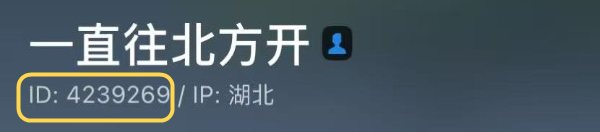
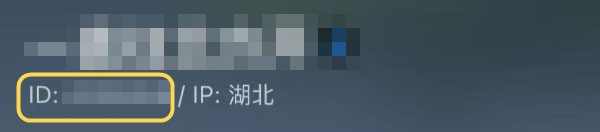
feat(douban-import): 入口挪到「批量标记」右边；示例图昵称和 ID 打码

Changed region(s): [[0.03, 0.0909, 0.6, 0.5455], [0.09, 0.6061, 0.3, 0.7879]]

diff --git a/CLAUDE.md b/CLAUDE.md
@@ -202,7 +202,7 @@ One-shot "move house" of a user's public Douban 看过 / 想看 into `Marks`. **
 - **Source:** `m.douban.com/rexxar/api/v2/user/{uid}/interests?type=movie&status=done|mark`, anonymous, 50 per page, needs iPhone UA + `m.douban.com/people/{uid}/` Referer. There is no official third-party API, so it only works for public records. Pages often hold 49 items (taken-down entries are skipped) — **paginate by fixed step against `total`, never stop on a short page** (the first cut did, and stopped after page 1). Unknown uid → 404 `traversal_error`, which must not trip the circuit.
 - **Cloud function `importDoubanMarks`** (actions `preview / start / page / finish / undo`, ops `stats / resetCircuit`): the client loops one page per call (≈2~3 s each) with an 800 ms gap. Matching = `movie_facts.doc(doubanId).movieIds` (all ranking docs except IMDb, which has no doubanId), so no `movie_alias` expansion. Write rules in `logic.js` (pure, `node --test tools/test-douban-import.cjs`): only add, never downgrade — unmarked → add; local wish + Douban watched → upgrade (keeps `prevStatus`/`prevMarkedAt`); everything else skipped. `marked_at` = Douban's own mark time, so timelines stay honest and "最近热门" isn't inflated. Every written mark carries `source:'douban_import'`, `importId`, `importStatus`; `undo` only touches marks whose status still equals `importStatus` (deletes adds, restores upgrades, strips import fields from ones the user changed).
 - **Guards (protect the shared egress IP — a ban would also break 评分查询 / 每日电影 search / covers):** collection `douban_import_jobs` (one doc per import + `_id:'__circuit'`); ≤ 5 imports running at once (`MAX_ACTIVE`), one finished import per user per Beijing day (an undone one doesn't count; a running one resumes from its stored cursors), and any non-200 / `code` from Douban trips a 30-minute global pause.
-- **Entry:** a chip in the Douban TOP250 list hero, shown only to logged-in users inside gray rollout `grayRollout.douban_import` (local default 0, `grayForceIn` has the self-test openid; widen it in cloud `app_config`). It doubles as the A/B split for "does import help retention". The list page reloads marks in `onShow` when `globalData.doubanImportDirty` is set. Import never writes `DailyLogs` (Douban mark dates ≠ watch dates); the done screen no longer links to 每日电影 (removed 2026-11-01 at the user's request). The page asks only for the numeric Douban ID, with `images/douban-id-guide.jpg` showing where it sits under the nickname.
+- **Entry:** a 「从豆瓣导入」 button right of 「批量标记」 in the Douban TOP250 list's sticky action row, shown only to logged-in users inside gray rollout `grayRollout.douban_import` (local default 0, `grayForceIn` has the self-test openid; widen it in cloud `app_config`). It doubles as the A/B split for "does import help retention". The list page reloads marks in `onShow` when `globalData.doubanImportDirty` is set. Import never writes `DailyLogs` (Douban mark dates ≠ watch dates); the done screen no longer links to 每日电影 (removed 2026-11-01 at the user's request). The page asks only for the numeric Douban ID, with `images/douban-id-guide.jpg` showing where it sits under the nickname (nickname and digits pixelated).
 - Analytics `douban_import { step, result, count }` (register in We分析 before release). **Deploy:** `importDoubanMarks` (needs `wx-server-sdk`); a CLI-created function runs with the 3 s default — set 20 s in the console. The temporary `probeDoubanImport` function used for the feasibility test can be deleted.
 
 ### Subscription & Push
